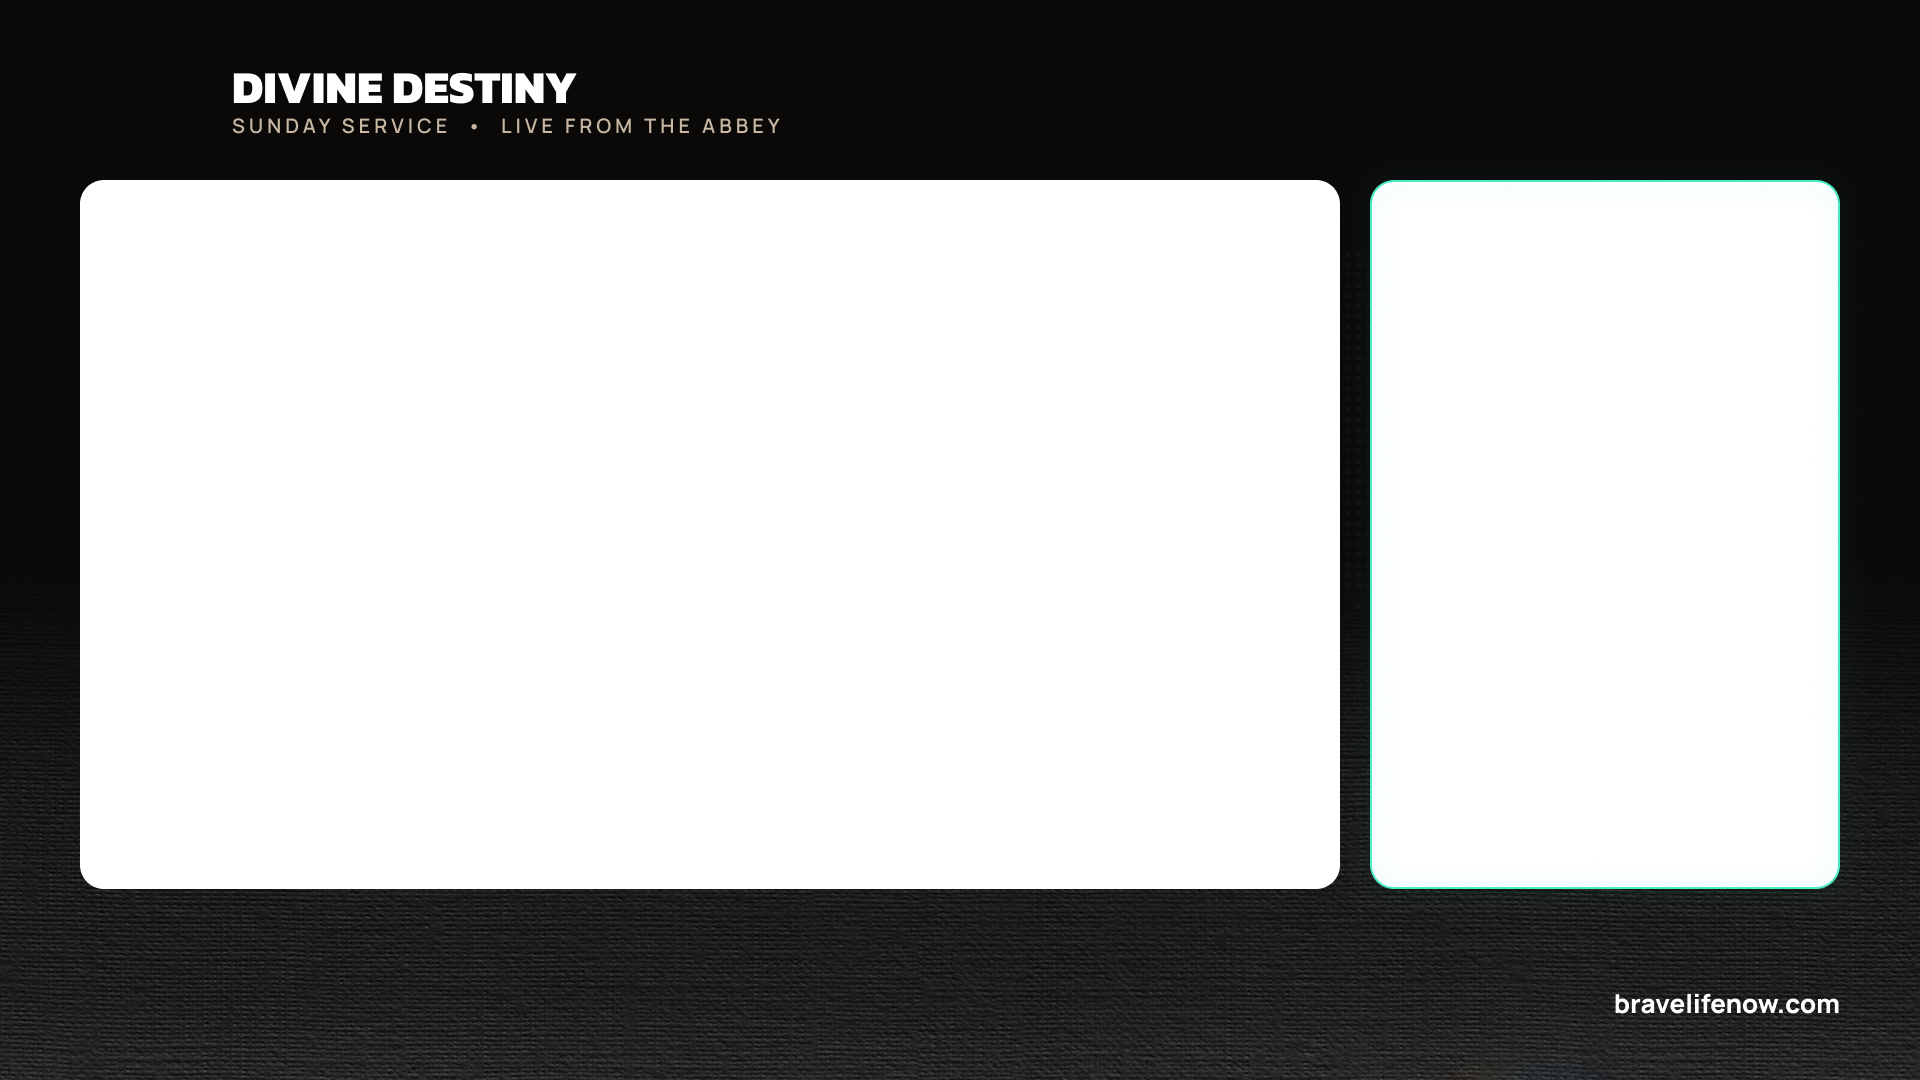
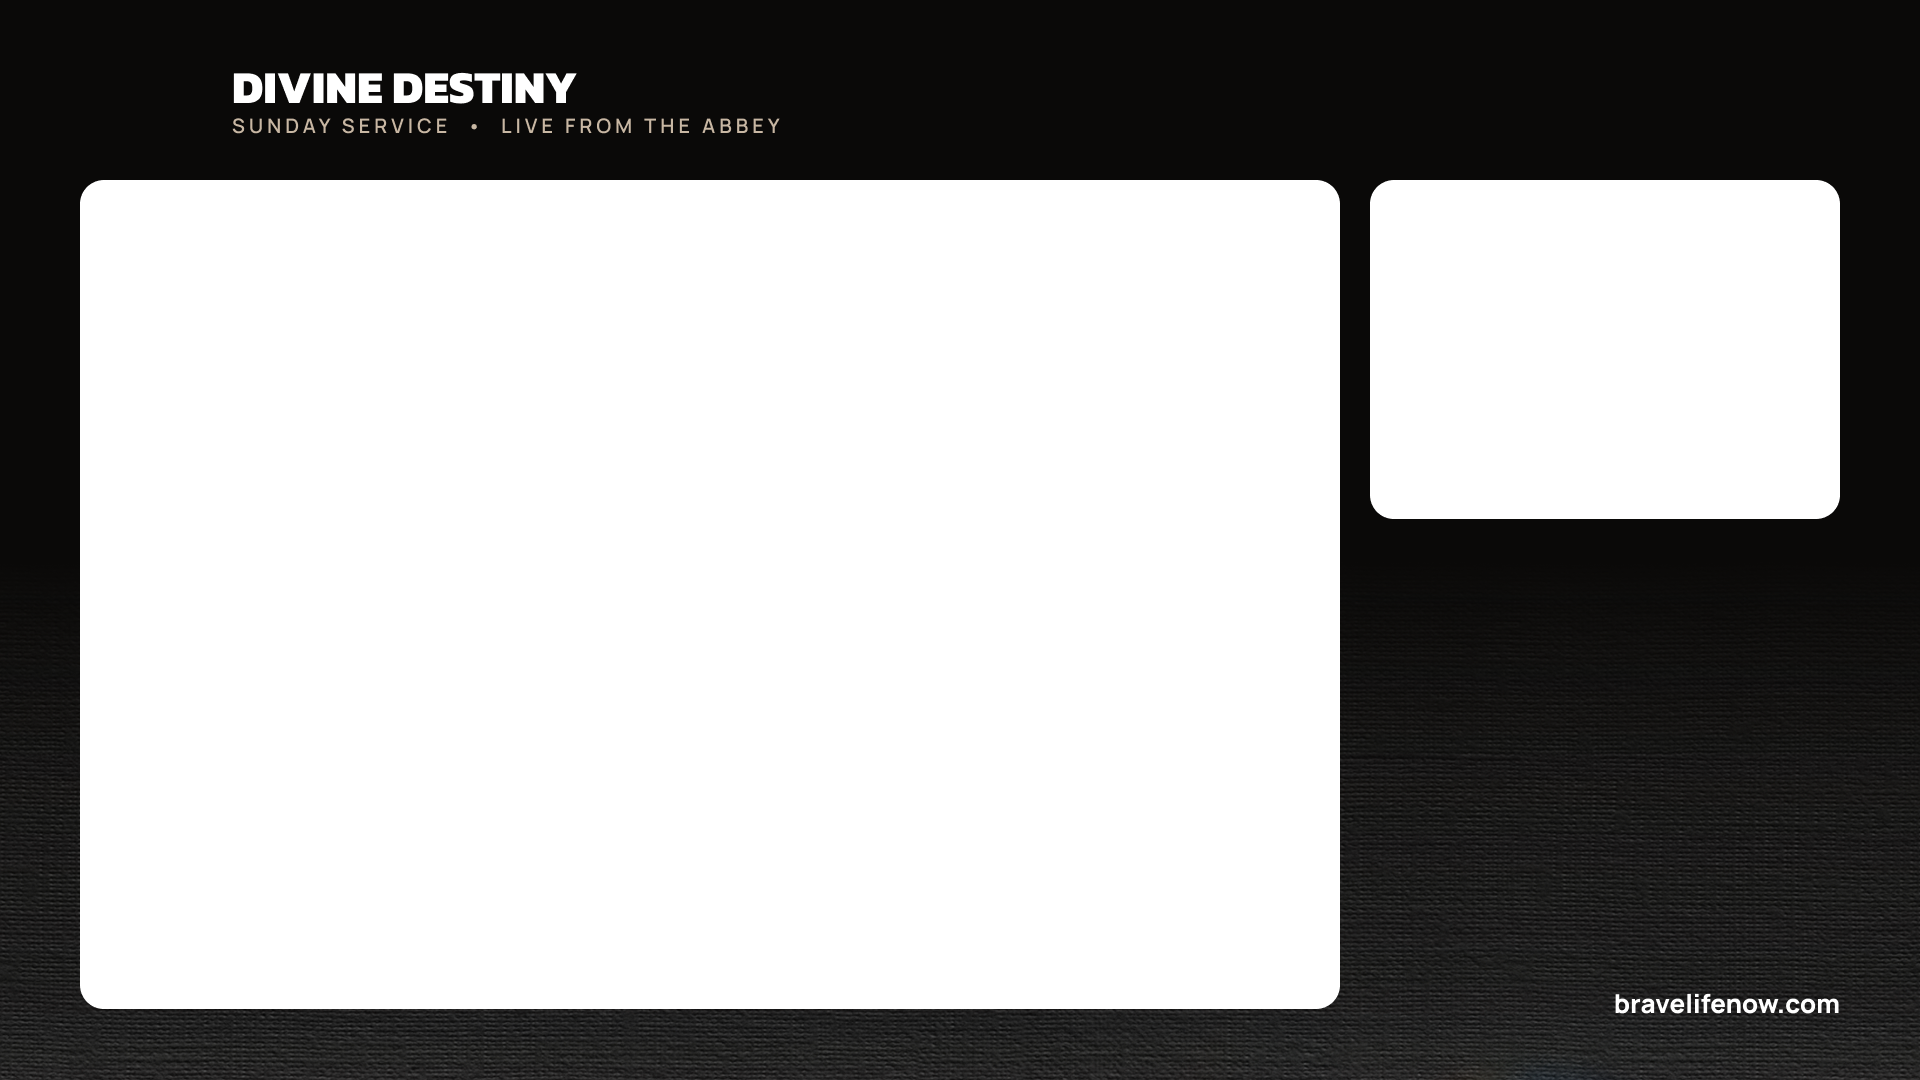
Update OBS scenes 2026-11-19 11:10

Changed region(s): [[0.0312, 0.4583, 0.9688, 0.9472]]

diff --git a/scene.html b/scene.html
@@ -130,6 +130,42 @@
 
   canvas.globe { position: absolute; pointer-events: none; }
 
+  /* ---------- compact name tag inside a camera window (Figma Screen Share 6988:1772) ---------- */
+  .lt.compact .card {
+    box-sizing: border-box; width: var(--w); height: 76px; padding: 0 24px 0 30px; gap: 26px; align-items: center; overflow: hidden;
+    background: linear-gradient(180deg, rgba(255,255,255,.09), rgba(255,255,255,0)), rgba(10,9,8,.85);
+    border: 1.5px solid rgba(255,255,255,.08); box-shadow: 0 18px 44px rgba(0,0,0,.45);
+    -webkit-backdrop-filter: blur(20px); backdrop-filter: blur(20px);
+  }
+  .lt.compact .bar { width: 8px; height: 44px; box-shadow: 0 0 18px rgba(0,225,170,.6); }
+  .lt.compact .txt { min-width: 0; flex: 1; }
+  .lt.compact .nm { font-size: 30px; line-height: 41px; overflow: hidden; text-overflow: ellipsis; }
+  .lt.compact .rl { margin-top: -4px; font-size: 18px; line-height: 25px; overflow: hidden; text-overflow: ellipsis; }
+  .lt.compact .sep { margin: 0 .45em; }
+
+  /* ---------- live chat panel (sample/demo now, real chat later) ---------- */
+  .chat { display: flex; flex-direction: column; }
+  .chat .head { display: flex; align-items: center; gap: 10px; height: 34px; padding-left: 4px; font-weight: 800; font-size: 15px; letter-spacing: .22em; color: var(--mint); }
+  .chat .head i { width: 9px; height: 9px; border-radius: 50%; background: var(--mint); box-shadow: 0 0 10px rgba(0,225,170,.9); animation: livedot 1.3s ease-in-out infinite; }
+  .chat .list {
+    position: relative; flex: 1; overflow: hidden; display: flex; flex-direction: column; justify-content: flex-end;
+    -webkit-mask-image: linear-gradient(180deg, transparent 0, #000 70px); mask-image: linear-gradient(180deg, transparent 0, #000 70px);
+  }
+  .chat .msg {
+    display: flex; gap: 12px; align-items: flex-start; margin-top: 10px; padding: 12px 16px 13px 12px; border-radius: 16px;
+    background: linear-gradient(180deg, rgba(255,255,255,.07), rgba(255,255,255,.02)), rgba(14,13,12,.78);
+    border: 1px solid rgba(255,255,255,.08); box-shadow: 0 10px 24px rgba(0,0,0,.35);
+    -webkit-backdrop-filter: blur(16px); backdrop-filter: blur(16px);
+    animation: msgIn .55s cubic-bezier(.16,.84,.24,1) both;
+  }
+  .chat .msg.host { border-color: rgba(0,225,170,.45); }
+  @keyframes msgIn { from { opacity: 0; transform: translateY(26px) scale(.97); } to { opacity: 1; transform: none; } }
+  .chat .av { flex: none; width: 38px; height: 38px; border-radius: 50%; display: flex; align-items: center; justify-content: center; font-weight: 800; font-size: 15px; color: var(--ink); }
+  .chat .body { min-width: 0; }
+  .chat .who { font-weight: 800; font-size: 17px; line-height: 22px; color: #fff; display: flex; align-items: center; gap: 8px; }
+  .chat .who em { font-style: normal; font-weight: 800; font-size: 11px; letter-spacing: .16em; padding: 2px 8px; border-radius: 99px; background: var(--mint); color: var(--ink); }
+  .chat .txt { font-weight: 500; font-size: 19px; line-height: 26px; color: #e9e3da; overflow-wrap: anywhere; }
+
   /* ---------- slow continuous ticker (e.g. "BRAVELIFE • BRAVELIFE •" under the host) ---------- */
   .ticker { overflow: hidden; }
   .ticker .strip { position: absolute; left: 0; top: 0; height: 100%; background-repeat: repeat-x; will-change: transform; }
@@ -162,8 +198,10 @@ const SCENES = {
     title: 'Screen Share + Host',
     layers: [{ img: 'screen-static' }],
     logo: [75, 43], live: [1692, 92],
-    lowers: [{ x: 80, y: 945, s: 0.62, from: 'lower' }],
-    preview: [{ box: [80, 180, 1260, 709], text: 'SCREEN SHARE' }, { box: [1370, 180, 470, 709], img: 'assets/preview/host.png' }],
+    // Figma "OBS Scene 03 — Share Screen Single Window" (6825:636): screen 1260×829, host window 470×339, name tag inside it
+    lowers: [{ x: 1380, y: 433, s: 1, compact: true, w: 451, from: 'lower' }],
+    chat: { x: 1370, y: 535, w: 470, h: 425 },   // empty area under the host window
+    preview: [{ box: [80, 180, 1260, 829], text: 'SCREEN SHARE' }, { box: [1370, 180, 470, 339], img: 'assets/preview/host.png' }],
   },
   side: {
     title: 'Side-by-Side Conversation',
@@ -299,8 +337,47 @@ if (SC.logo) at(el(`<div class="layer logo"><img class="base" src="assets/starti
 const lowers = (SC.lowers || []).map(cfg => {
   const n = at(el(`<div class="layer lt"><div class="card"><div class="bar"></div><div class="txt"><div class="nm"></div><div class="rl"></div></div></div></div>`), cfg.x, cfg.y);
   n.style.transform = `scale(${cfg.s})`;
+  if (cfg.compact) { n.classList.add('compact'); n.style.setProperty('--w', cfg.w + 'px'); }
   return { n, cfg };
 });
+
+/* ---------- live chat: ?chat=demo shows sample messages so Troy can see how it will look ---------- */
+if (SC.chat && q.get('chat') === 'demo') {
+  const C = SC.chat;
+  const box = at(el(`<div class="layer chat"><div class="head"><i></i>LIVE CHAT</div><div class="list"></div></div>`), C.x, C.y);
+  Object.assign(box.style, { width: C.w + 'px', height: C.h + 'px' });
+  const list = box.querySelector('.list');
+  const COLORS = ['#5ffcc0', '#00e1aa', '#c8b7a3', '#a89886', '#9ee8ff', '#ffd39a', '#d7b9ff'];
+  const SAMPLE = [
+    ['Grace M.', 'Amen! 🙌'],
+    ['Joel Santos', 'Watching from Manila 🇵🇭 God bless Brave Life!'],
+    ['Kristin', 'This is such a powerful word today'],
+    ['Pastor Mike', 'Greetings from Dallas – Fort Worth! 🔥'],
+    ['Abby R.', 'Can you share that verse again?'],
+    ['Daniel', 'Hallelujah! Thank you Jesus'],
+    ['Brave Life Team', 'Give online: bravelifenow.com/give 💚', 'host'],
+    ['Sarah K.', 'Praying for everyone watching right now 🙏'],
+    ['Marco', 'First time here — so glad I found this'],
+    ['Lydia', 'Taking notes!! 📝'],
+    ['Chris T.', 'Romans 8:28 ❤'],
+    ['Nina', 'Hello from Toronto 👋'],
+    ['Ben', 'That part about partnership hit home'],
+    ['Joy A.', 'Amen amen amen'],
+  ];
+  let k = 0;
+  const initials = n => n.split(/\s+/).map(w => w[0]).join('').slice(0, 2).toUpperCase();
+  const add = () => {
+    const [name, text, kind] = SAMPLE[k % SAMPLE.length]; k++;
+    const m = document.createElement('div');
+    m.className = 'msg' + (kind === 'host' ? ' host' : '');
+    m.innerHTML = `<div class="av" style="background:${COLORS[(k * 3) % COLORS.length]}">${BL.esc(initials(name))}</div>
+      <div class="body"><div class="who">${BL.esc(name)}${kind === 'host' ? '<em>HOST</em>' : ''}</div><div class="txt">${BL.esc(text)}</div></div>`;
+    list.appendChild(m);
+    while (list.children.length > 8) list.firstElementChild.remove();
+  };
+  add(); add(); add();
+  (function loop() { setTimeout(() => { add(); loop(); }, 2600 + Math.random() * 2400); })();
+}
 const live = SC.live ? at(el(`<div class="layer live"><div class="dot"></div><div class="lbl">LIVE</div><div class="shine"></div></div>`), ...SC.live) : null;
 let qr = null;
 if (SC.qr) {

diff --git a/links.html b/links.html
@@ -64,7 +64,9 @@ const LINKS = [
   { group: G, star: true, name: '2 · Solo Host', tag: 'CAMERA BELOW', path: 'scene.html?s=solo',
     desc: 'Full-screen camera. Ilagay ang camera source sa ILALIM ng Browser Source. Laging nakalabas ang pangalan ni Troy (main speaker). Dahan-dahang dumadaloy pakaliwa ang BRAVELIFE ticker, glitch logo, LIVE.' },
   { group: G, star: true, name: '3 · Screen Share + Host', tag: 'CAMERA BELOW', path: 'scene.html?s=screen',
-    desc: 'Malaking window para sa screen share (X 80, Y 180, 1260×709) + isang window para sa host (X 1370, Y 180, 470×709).' },
+    desc: 'Malaking window para sa screen share (X 80, Y 180, 1260×829) + host window (X 1370, Y 180, 470×339) na may name tag. May puwesto para sa live chat sa ilalim.' },
+  { group: G, name: '3 · Screen Share + Host — with SAMPLE live chat', tag: 'PREVIEW ONLY', path: 'scene.html?s=screen&chat=demo',
+    desc: 'Pareho sa #3 pero may sample live chat sa ilalim ng camera ni Troy, para makita ang itsura. Hindi pa ito totoong chat.' },
   { group: G, star: true, name: '4 · Side-by-Side Conversation', tag: 'CAMERA BELOW', path: 'scene.html?s=side',
     desc: 'Dalawang window: host (X 80, Y 180, 860×660) at guest (X 980, Y 180, 860×660). Names galing Control → Side-by-Side names.' },
   { group: G, star: true, name: '5 · Give (QR)', tag: 'FULL SCENE', path: 'scene.html?s=give',
